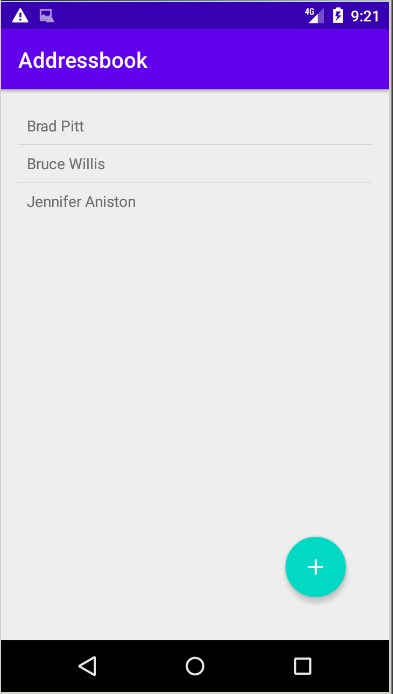
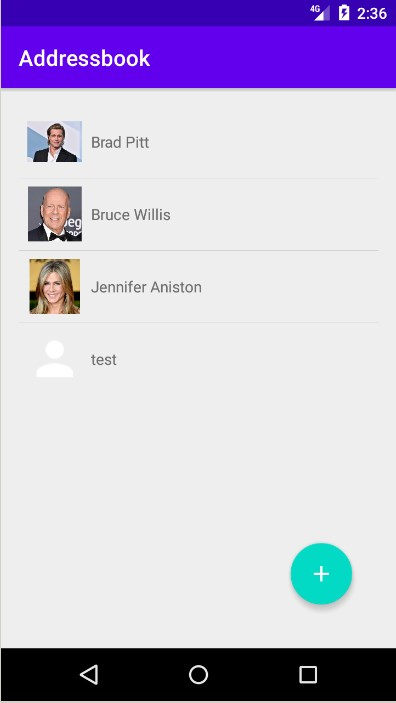
Добавлены фотографии в описание проекта.

diff --git a/README.md b/README.md
@@ -6,3 +6,12 @@
 Добавлены доп.возможности: сохранение фотографии контакта, отображение иконки фотографии в списке контактов, режим планшета.
 
 ![alt text](screenshots/addressbook1.jpg "рис.1 Главный экран.")
+
+![alt text](screenshots/addressbook2.jpg "рис.2 Просмотр контакта.")
+
+![alt text](screenshots/addressbook3.jpg "рис.3 Редактирование контакта.")
+
+![alt text](screenshots/addressbook4.jpg "рис.4 Удаление контакта.")
+
+![alt text](screenshots/addressbook5.jpg "рис.5 Просмотр фото контакта.")
+
